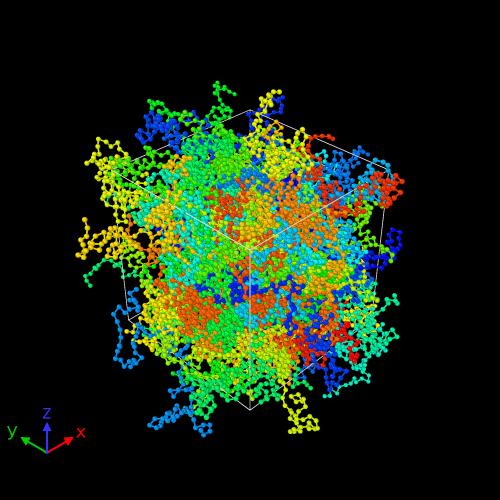
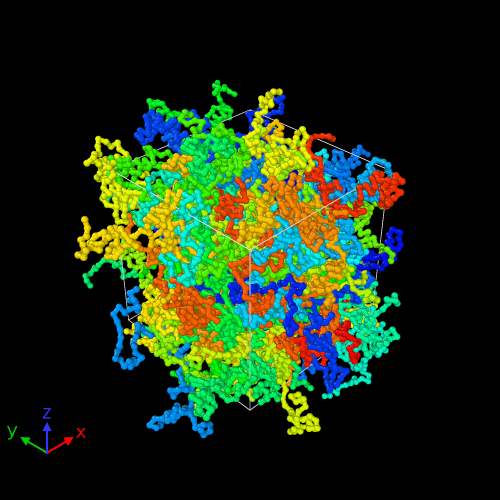
04Unwrap

Changed region(s): [[0.15, 0.15, 0.81, 0.87]]

diff --git a/04Unwrap/unwrap.py b/04Unwrap/unwrap.py
@@ -98,11 +98,11 @@ pipeline.add_to_scene()
 
 from ovito.vis import ParticlesVis
 particle_vis=pipeline.source.data.particles.vis
-particle_vis.radius=0.3
+particle_vis.radius=0.4
 
 from ovito.vis import BondsVis
 bond_vis=pipeline.source.data.particles.bonds.vis
-bond_vis.width=0.2
+bond_vis.width=0.6
 bond_vis.enabled=True
 
 cell_vis=pipeline.source.data.cell.vis

diff --git a/04Unwrap/README.md b/04Unwrap/README.md
@@ -13,8 +13,8 @@ $ python unwrap.py
 <img src=https://github.com/t-murash/OVITO-Tips/blob/master/04Unwrap/figure.png width=500px>
 
 ## unwrap.py の簡単な説明
-### PBC 番号の修正
-分子中央粒子のPBC番号を引く。
+### PBC index の修正
+各分子の中央に位置する粒子を見つけて、その粒子の PBC index を保存。
 ```
 def modify(frame,data):
     ...        
@@ -50,7 +50,9 @@ def modify(frame,data):
         pbc_mid[i,0]=pbc_sort[int(mol_id_mid[i])-1,0]
         pbc_mid[i,1]=pbc_sort[int(mol_id_mid[i])-1,1]
         pbc_mid[i,2]=pbc_sort[int(mol_id_mid[i])-1,2]
-
+```
+分子中央粒子の PBC index を同一分子の PBC index から引く。
+```
     for i in range(num_particles):
         pid_i=pid[i]
         mol_i=mol[i]
